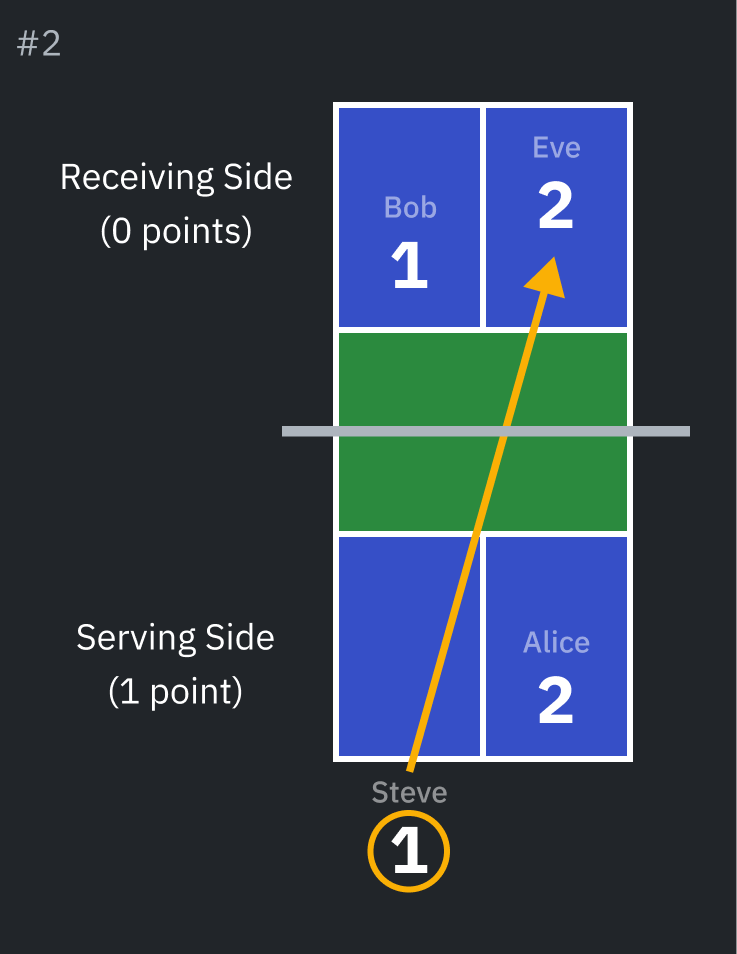
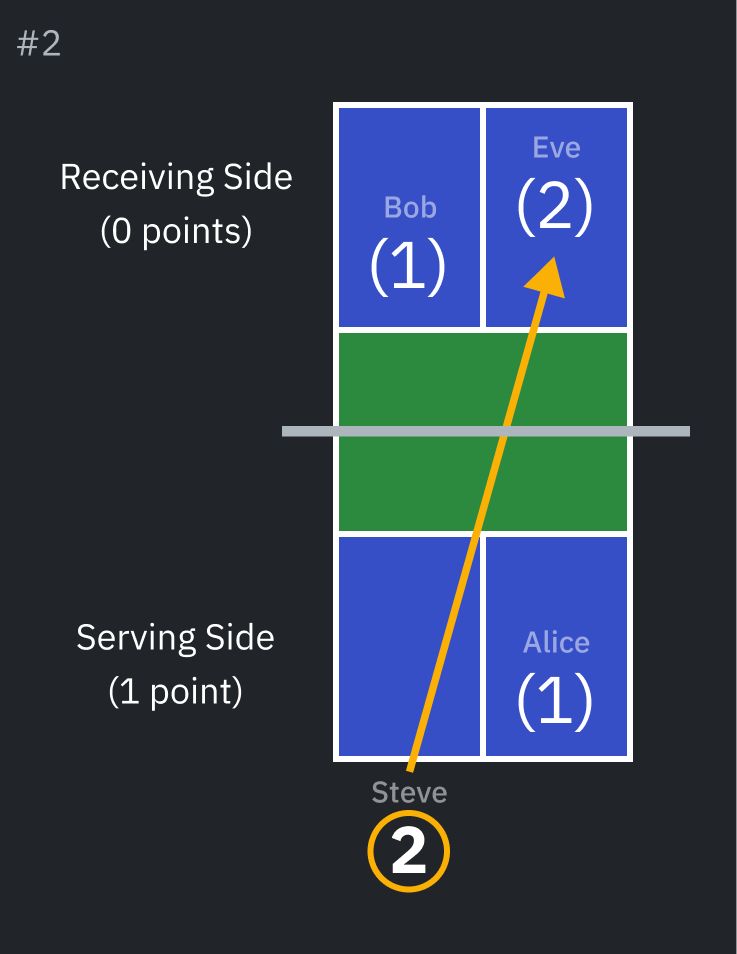
Improve pickleball article

diff --git a/src/content/writing/pickleball.md b/src/content/writing/pickleball.md
@@ -19,10 +19,6 @@ So, after grilling my friends about various permutations of possible moves, I de
 
 If you scroll down to the bottom, you'll also find a helpful flowchart.
 
-> **Hey, this isn't a programming article!**
->
-> My blog is a place to put anything I write, no topics barred. [The first post on here](/writing/familiarity-in-electroacoustic-music) is actually about electroacoustic music, not tech! I did, however, choose not to email this out to all  of my lovely new newsletter subscribers.
-
 ## Serves, Rallies, and Faults
 
 Breaking pickleball down into digestible units helped me a lot.
@@ -31,12 +27,16 @@ A *rally* starts when a player serves the ball and ends when one team commits a 
 
 One team is the *serving team*, and the other team is always the *receiving team*. At the start of the game and whenever the serving team changes sides, *server numbers* reset and are assigned to all players. The players on the right (from the perspective of each team) receive server number 1 and the left players receive server number 2.
 
+There's one exception to this: only one fault is allowed for the first serve of the game, so the first round starts with the right player receiving server number 2.
+
 The serving player announces before each rally:  
 "&lt;serving team's score&gt; &lt;receiving team's score&gt; &lt;serving player's server number&gt;"
 
 <img style='max-width: 480px; margin: 0 auto;' src='/writing-images/pickleball/player-shouting-score.png' alt='A scrawled drawing of a woman holding a pickleball paddle shouting "0-5-2!"' width='1920' height='1080' />
 
-The player on the right (player 1) of the serving team begins the game by calling out "0-0-1" and then serving the ball diagonally across the court. Now, only the serving team can ever win a point. Two things can happen:
+The player on the right — player 2 at the start of the game, normally player 1 at the start of a round — of the serving team begins the game by calling out "0-0-2" and then serving the ball diagonally across the court. Only the serving team can ever win a point.
+
+In a normal round, two things can happen:
 
 - If the serving team commits a fault (either a failed serve or the opposing team "scores") all positions and server numbers stay the same and player 2, on the left at the start, serves next. No points are earned by any team.
 - If the serving team scores (in other words, the receiving team commits a fault) the serving team wins a point. Then, the members of the serving team switch positions, **keeping server numbers the same**, and *the player who served last time serves*.
@@ -49,7 +49,7 @@ The player on the right (player 1) of the serving team begins the game by callin
 >
 > Nope, of course not, this game can't be *reasonable!*
 
-When the serving team screws up after player served, player 2 gets to serve. When player 2 eventually screws up, sides switch and the receiving team becomes the serving team and the ball switches sides. *Nobody changes position,* but now all the server numbers are reassigned based on *current positions*. 1 is assigned to whoever is on the right, and 2 is assigned to whoever is on the left. Again, this only happens when the serving side changes and at the start of the game.
+After the first round, if the serving team screws up after player 1 served, player 2 gets to serve. When player 2 eventually screws up, sides switch and the receiving team becomes the serving team and the ball switches sides. *Nobody changes position,* but now all the server numbers are reassigned based on *current positions*. 1 is assigned to whoever is on the right, and 2 is assigned to whoever is on the left. Again, this only happens when the serving side changes.
 
 As long as the serving team *doesn't* screw up, the servers keep their numbers and the same person keeps serving, alternating sides every point.
 
@@ -61,19 +61,17 @@ Let's look at a simple example game. The court starts like this, with the servin
 
 *(Steve is outside the court because you always have to serve from behind the outer line. Eve is also a little closer to the center than Bob; this is a common strategy to make it easier to hit the ball.)*
 
-Player 1 on the serving team serves the ball diagonally across the court (shouting, "0-0-1"). Let's say the receiving team hits it back, the serving team hits it back, and the receiving team misses the ball — committing a fault. The serving team wins a point, and players 1 and 2 on the serving team *physically switch positions*, (keeping the same server numbers). Since player 1 served last time, they serve again ("1-0-1"):
+The first player on the serving team serves the ball diagonally across the court (shouting, "0-0-2"). Let's say the receiving team hits it back, the serving team hits it back, and the receiving team misses the ball — committing a fault. The serving team wins a point, and players 1 and 2 on the serving team *physically switch positions*, (keeping the same server numbers). Since player 2 served last time (because this is the first round), they serve again from the left position ("1-0-2"):
 
 <img style='max-width: 280px;' src='/writing-images/pickleball/court-2.png' alt='Pickleball court, score 1 0 1' width='737' height='954' />
 
-This time, player 1 screws up their serve. Just like the opposing team missing the ball last turn, this counts as committing a fault. Since this time it was the serving team's fault, it is now player 2's time to serve ("1 0 2"). The receiving team doesn't win a point because the receiving team can *never* win a point. Here's the current state of the game:
+Next, Steve does another great serve, the receiving team hits the ball back, and Steve's team screws up and misses the ball, or perhaps hits it out of the court. Whatever happened, the serving team committed a fault. The receiving team still can't score a point, but, because player 2 screwed up, it's time for the ball to go to the opposing team!
 
-<img style='max-width: 280px;' src='/writing-images/pickleball/court-3.png' alt='Pickleball court, score 1 0 2' width='737' height='954' />
+All the server numbers reset. The receiving team becomes the serving team, the serving team becomes the receiving team, and the rightmost players become player 1s:
 
-Now, player 2 does a great serve, the receiving team hits the ball back, and player 2's team screws up and misses the ball, or maybe hits it out of the court. The serving team committed a fault again. The receiving team still can't score a point, but the serving player needs to change because player 2 screwed up. However, this time it was player 2 and not player 1 — so the ball needs to go to the opposing team! So, all the server numbers reset. The receiving team becomes the serving team, the serving team becomes the receiving team, and the rightmost players become the player 1s:
+<img style='max-width: 280px;' src='/writing-images/pickleball/court-3.png' alt='Pickleball court, score 0 1 1' width='737' height='954' />
 
-<img style='max-width: 280px;' src='/writing-images/pickleball/court-4.png' alt='Pickleball court, score 0 1 1' width='737' height='954' />
-
-Player 1 of the opposing team calls out the score ("0-1-1") and serves the ball. The play continues!
+Player 1 of the opposing team calls out the score ("0-1-1") and serves the ball. The play continues.
 
 ## Additional Rules
 
